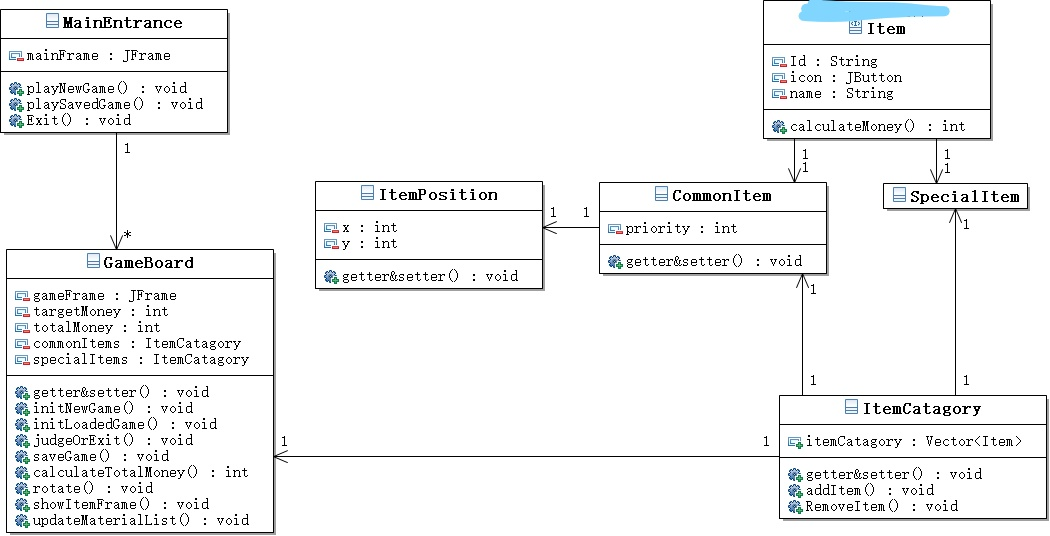
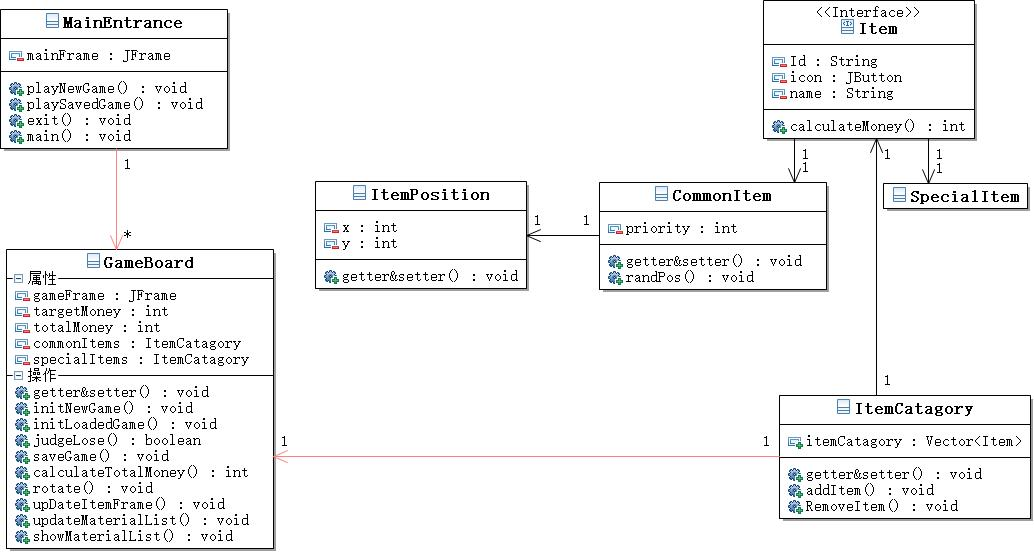
更新项目(工程)idea描述文件 和 上传了全新的UML图

Changed region(s): [[0.0, 0.0, 1.0, 1.0], [0.0, 0.0, 0.2476, 0.3284]]

diff --git a/LuckyHostProject/src/com/game/GameBoard.java b/LuckyHostProject/src/com/game/GameBoard.java
@@ -1,5 +1,7 @@
 package com.game;
 
+import com.Item.ItemCatagory;
+
 import javax.swing.*;
 import java.awt.event.WindowAdapter;
 import java.awt.event.WindowEvent;
